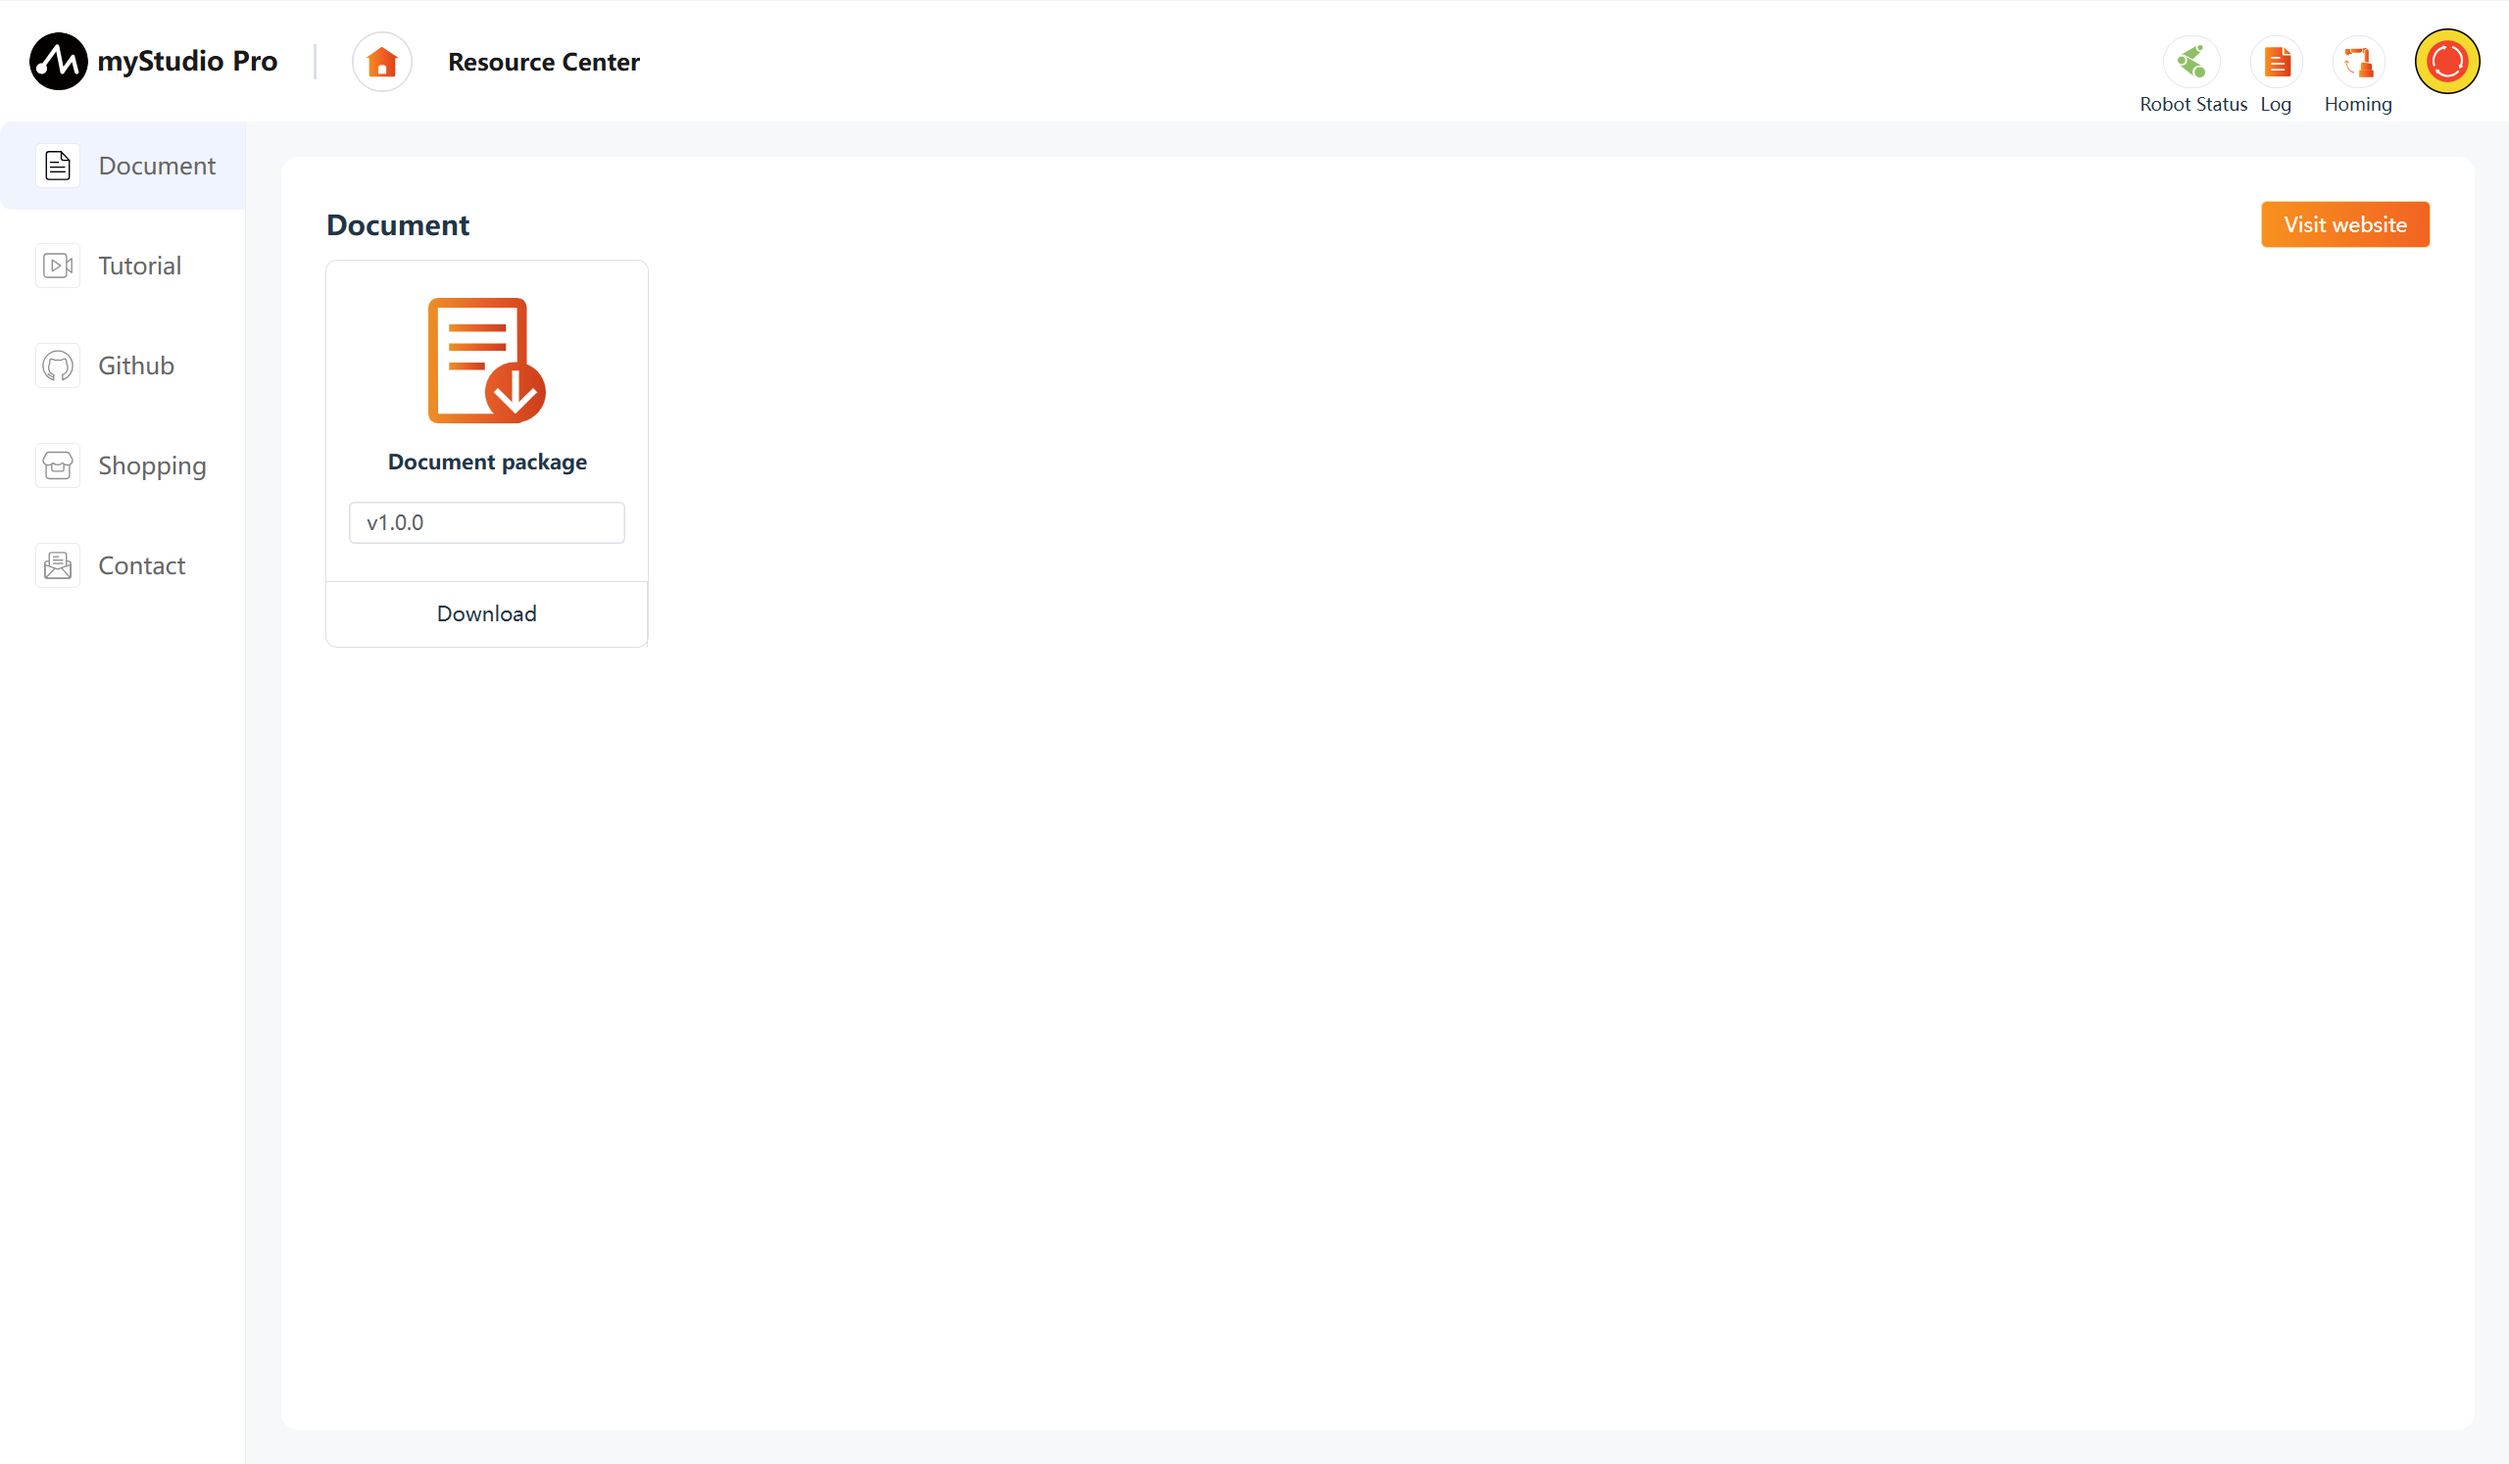
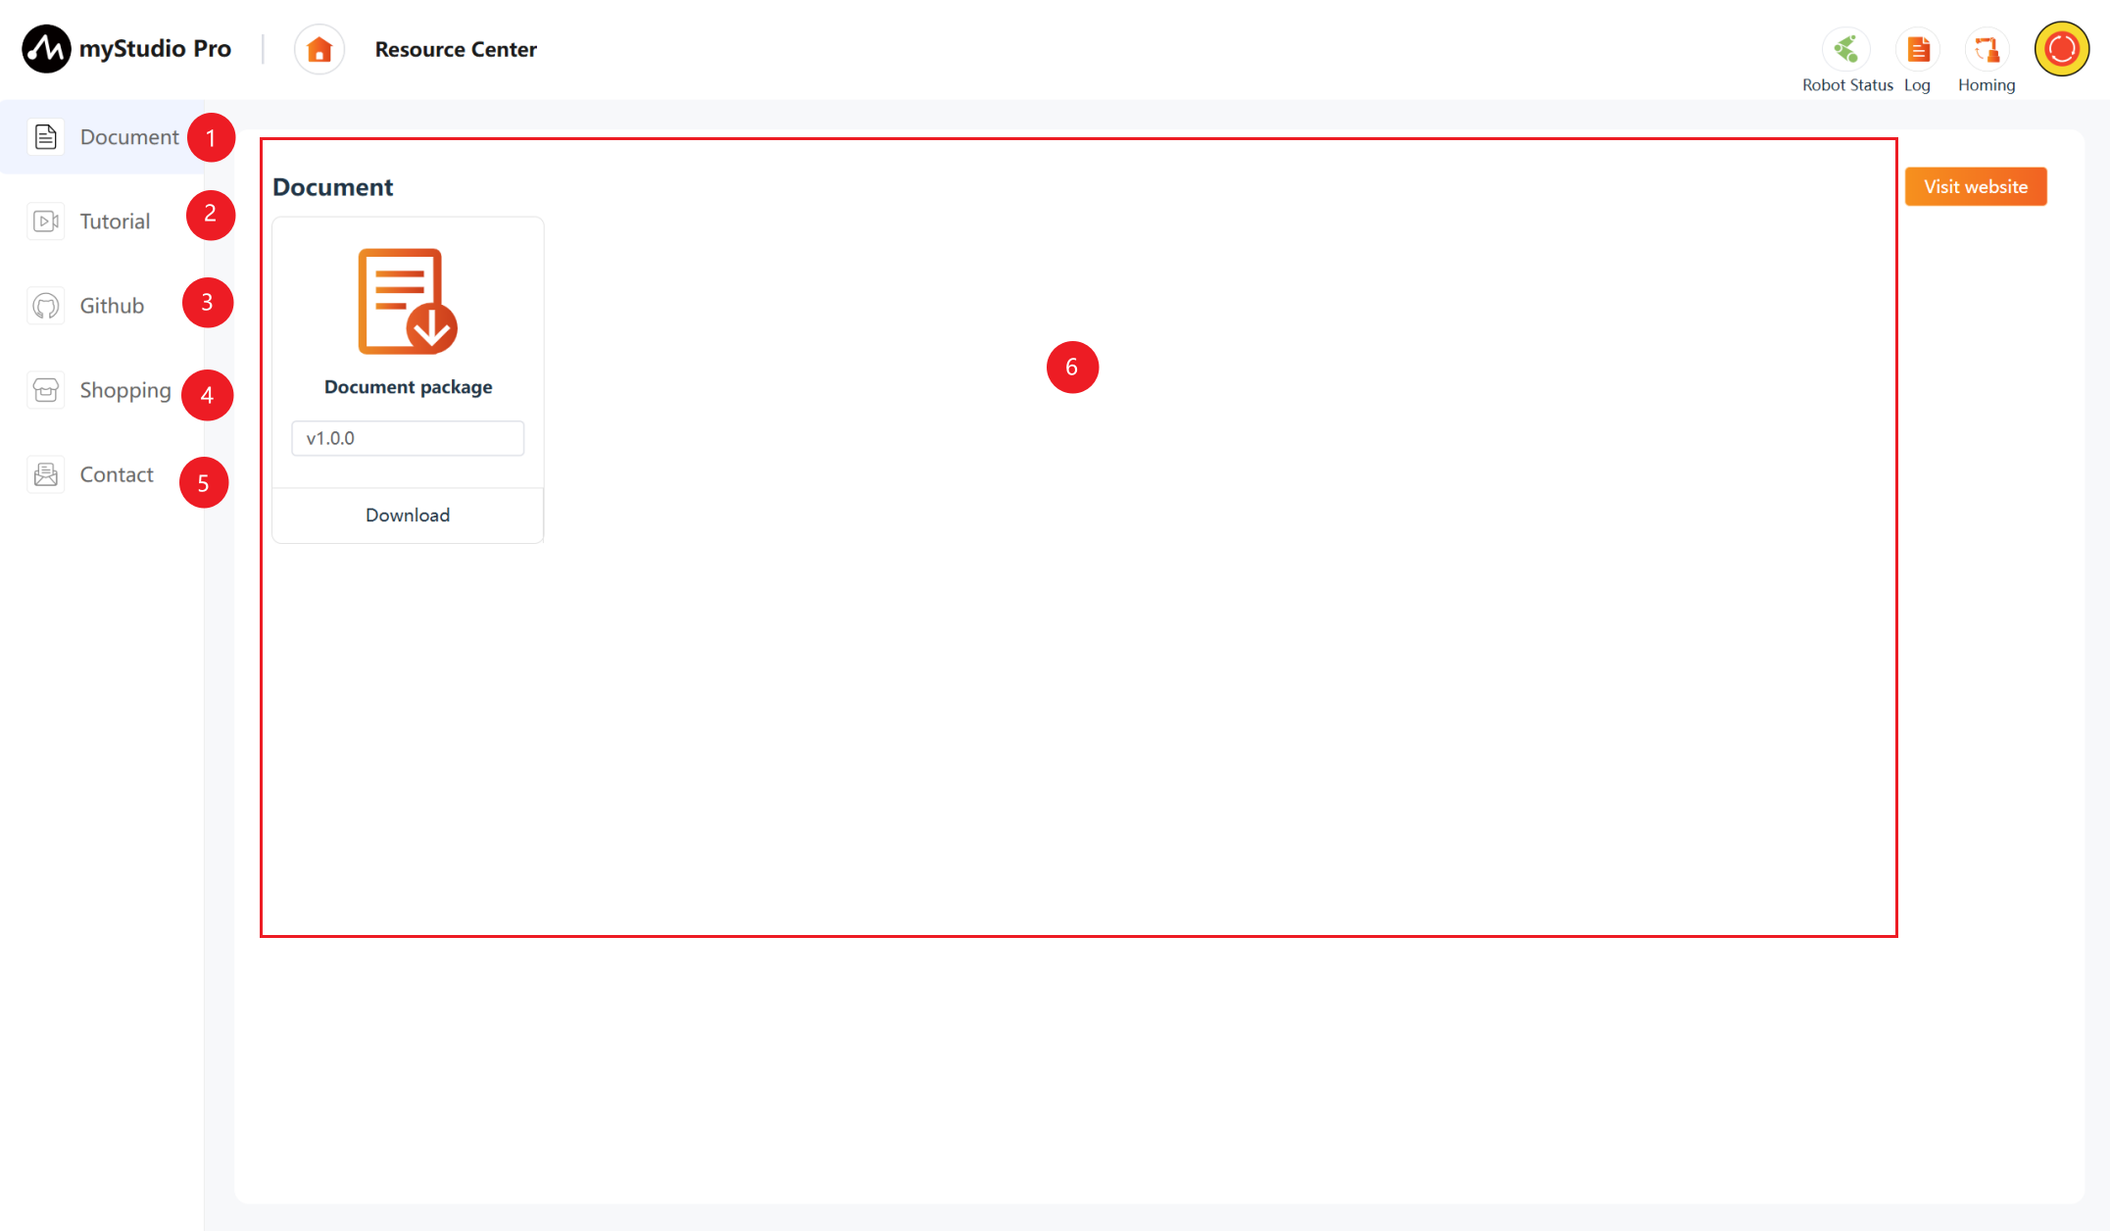
docs(mystudio): update some markdown.

diff --git a/ultraArmP1_en/C-FunctionsAndApplications/5-BasicApplication/5.3-myStudioPro/5.3.5-resourceCenter.md b/ultraArmP1_en/C-FunctionsAndApplications/5-BasicApplication/5.3-myStudioPro/5.3.5-resourceCenter.md
@@ -15,6 +15,7 @@ The Resource Center main interface provides five function entries: Document Manu
 | 3   | Github: Jump to the official Github or Gitee open-source repository |
 | 4   | Online Store: Jump to the official Taobao or Shopify purchase page |
 | 5   | Contact Us: Submit questions or suggestions, supports file attachments |
+| 6   | Module Content Display Area: shows the current module's operation interface |
 
 ---
 

diff --git a/ultraArmP1_cn/C-FunctionsAndApplications/5-BasicApplication/5.3-myStudioPro/5.3.5-resourceCenter.md b/ultraArmP1_cn/C-FunctionsAndApplications/5-BasicApplication/5.3-myStudioPro/5.3.5-resourceCenter.md
@@ -15,6 +15,7 @@
 | 3    | Github：跳转至官方 Github 或 Gitee 开源仓库 |
 | 4    | 在线商城：跳转至淘宝或京东官方购买页面 |
 | 5    | 联系我们：提交问题或建议，支持上传附件 |
+| 6    | 模块内容显示区域：展示当前选中模块的操作界面 |
 
 ---
 
